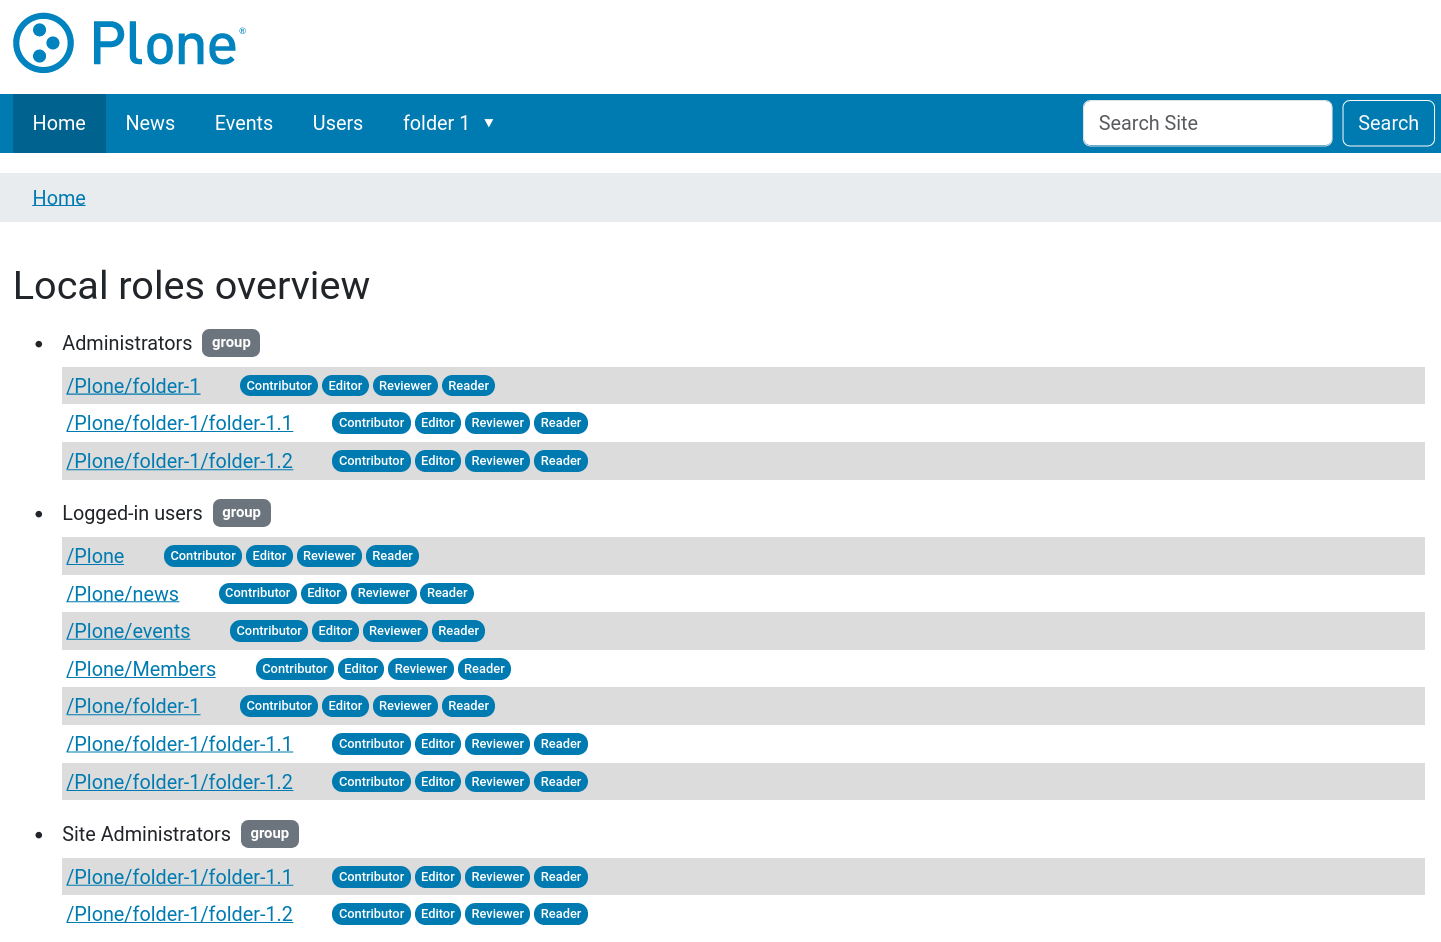
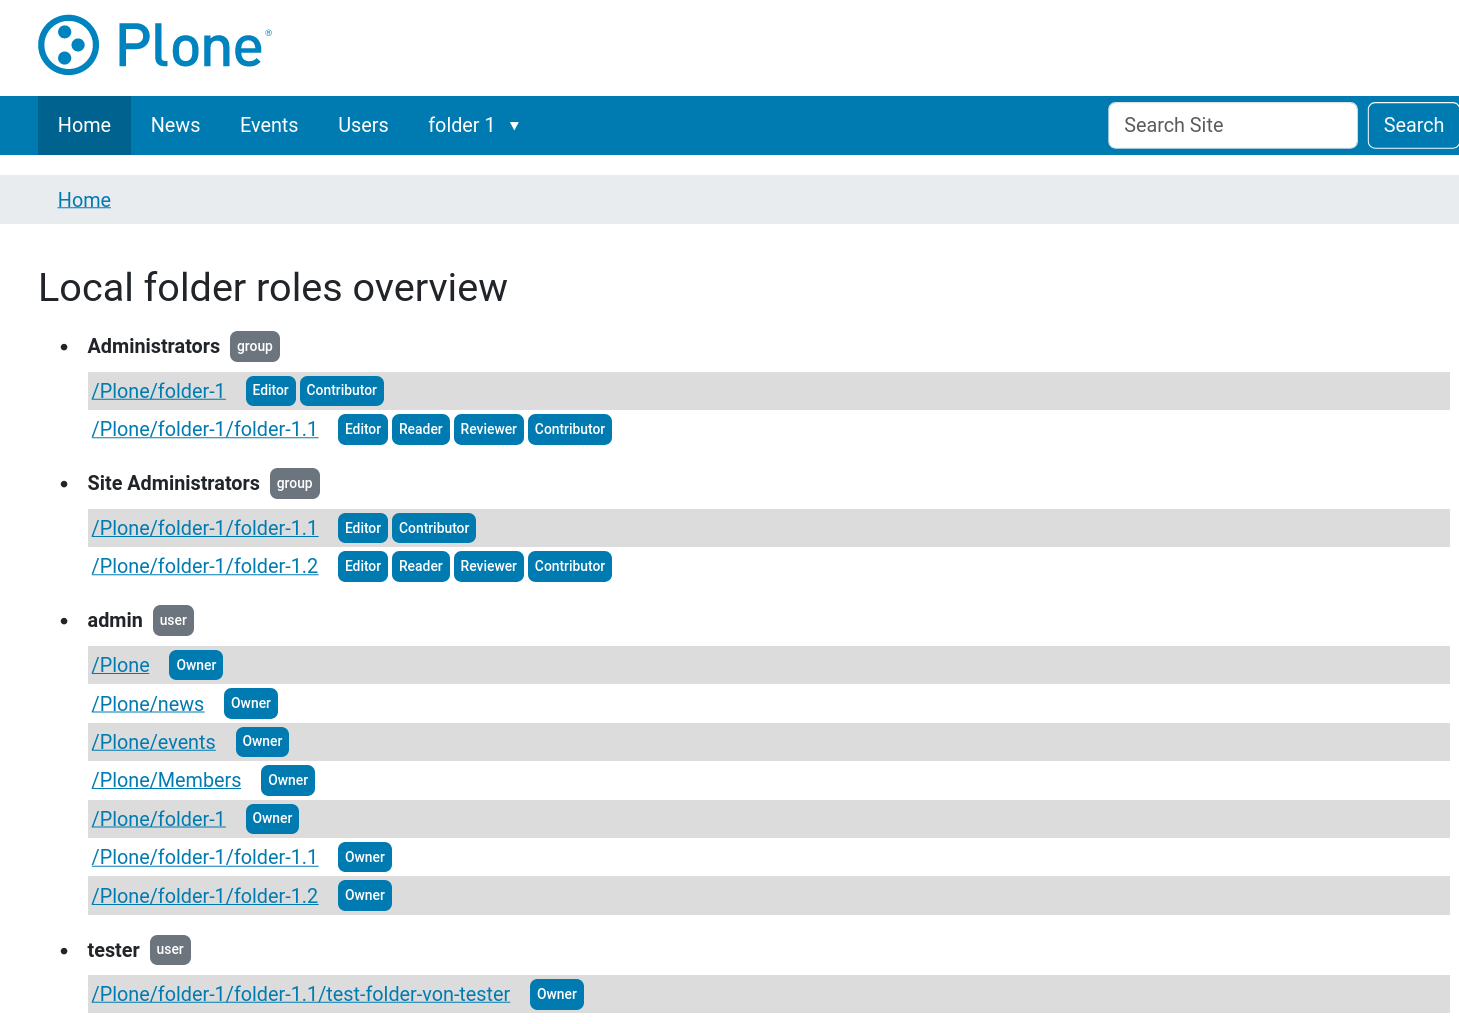
only show local, non-acquired roles, but also collect global_roles

diff --git a/src/collective/localrolesoverview/browser/static/main.css b/src/collective/localrolesoverview/browser/static/main.css
@@ -1,45 +1,53 @@
-.template-localroles-overview .principal{
+.template-localfolderroles-overview .principal{
     display: flex;
     flex-direction: column;
     gap: 0.5em;
     padding: 0.5em;
 }
 
-.template-localroles-overview .principal__header{
+.template-localfolderroles-overview .principal__header{
     display: flex;
     gap: 0.5em;
-    --bs-badge-font-size: 0.65em;
-    --bs-badge-font-weight: 500;
-    --bs-badge-padding-x: 0.5em;
-    --bs-badge-padding-y: 0.15em;
-    line-height: 1.4em;
 }
 
-.template-localroles-overview .paths{
+.template-localfolderroles-overview .principal__header .badge{
+    --bs-badge-font-size: 0.7rem;
+    --bs-badge-font-weight: 500;
+    --bs-badge-padding-x: 0.5em;
+    --bs-badge-padding-y: 0.1em;
+    line-height: 1.4rem;
+}
+
+.template-localfolderroles-overview .principal__title{
+    font-weight: bold;
+}
+
+.template-localfolderroles-overview .paths{
     padding: 0;
 }
 
-.template-localroles-overview .paths > li{
+.template-localfolderroles-overview .paths > li{
     display: flex;
     align-items: center;
     padding: 0.2em;
+    font-size: 1rem;
 }
-.template-localroles-overview .paths > li:nth-child(odd){
+.template-localfolderroles-overview .paths > li:nth-child(odd){
     background-color: gainsboro;
 }
 
-.template-localroles-overview .roles{
+.template-localfolderroles-overview .roles{
     display: flex;
     flex-wrap: wrap;
     gap: 0.2em;
     list-style-type: none;
+    padding: 0 0 0 1em;
 }
 
-.template-localroles-overview .roles .badge{
-    --bs-badge-font-size: 0.65em;
+.template-localfolderroles-overview .roles .badge{
+    --bs-badge-font-size: 0.7rem;
     --bs-badge-font-weight: 500;
     --bs-badge-padding-x: 0.5em;
-    --bs-badge-padding-y: 0.15em;
-    --bs-border-radius-pill: 0.8em;
-    line-height: 1.4em;
+    --bs-badge-padding-y: 0.1em;
+    line-height: 1.4rem;
 }

diff --git a/src/collective/localrolesoverview/utils.py b/src/collective/localrolesoverview/utils.py
@@ -1,4 +1,73 @@
+from collective.localrolesoverview import _
 from plone import api
+from Products.CMFCore.utils import getToolByName
+
+AUTH_GROUP = "AuthenticatedUsers"
+STICKY = (AUTH_GROUP,)
+
+
+def _local_roles_settings(context):
+    info = []
+    acl_users = getToolByName(context, "acl_users")
+    portal_groups = getToolByName(context, "portal_groups")
+
+    local_roles = acl_users._getLocalRolesForDisplay(context)
+    items = {}
+    for name, roles, rtype, rid in local_roles:
+        if rid in items:
+            items[rid]["local"] = roles
+        else:
+            items[rid] = dict(
+                id=rid,
+                name=name,
+                type=rtype,
+                sitewide=[],
+                acquired=[],
+                local=roles,
+            )
+
+    dec_users = [
+        (a["id"] not in STICKY, a["type"], a["name"], a)
+        for a in items.values()
+    ]
+    dec_users.sort()
+    for d in dec_users:
+        item = d[-1]
+        name = item["name"]
+        rid = item["id"]
+        login = rid
+        global_roles = set()
+
+        if item["type"] == "user":
+            member = acl_users.getUserById(rid)
+            if member is not None:
+                name = (
+                    member.getProperty("fullname") or member.getUserName() or name
+                )
+                global_roles = set(member.getRoles())
+                login = member.getUserName()
+        elif item["type"] == "group":
+            g = portal_groups.getGroupById(rid)
+            name = g.getGroupTitleOrName()
+            login = None
+            global_roles = set(g.getRoles())
+
+            # This isn't a proper group, so it needs special treatment :(
+            if rid == AUTH_GROUP:
+                name = _("Logged-in users")
+
+        info_item = dict(
+            id=item["id"],
+            type=item["type"],
+            title=name,
+            local_roles=item['local'],
+            global_roles=global_roles,
+        )
+        if login != name:
+            info_item["login"] = login
+        if info_item["local_roles"] or info_item["global_roles"]:
+            info.append(info_item)
+    return info
 
 
 def build_local_roles_map(context):
@@ -6,8 +75,7 @@ def build_local_roles_map(context):
     brains = api.content.find(context=context, is_folderish=True)
     for brain in brains:
         obj = brain.getObject()
-        sharing_view = api.content.get_view(name="sharing", context=obj)
-        rolemaps = sharing_view.existing_role_settings()
+        rolemaps = _local_roles_settings(obj)
         for rolemap in rolemaps:
             if rolemap["id"] not in lrmap:
                 lrmap[rolemap["id"]] = {
@@ -20,7 +88,7 @@ def build_local_roles_map(context):
             lrmap[rolemap["id"]]["paths"].append(obj.absolute_url_path())
             lrmap[rolemap["id"]][obj.absolute_url_path()] = {
                 "url": obj.absolute_url(),
-                "roles": [r for r in rolemap["roles"] if r],
+                "roles": [r for r in rolemap["local_roles"] if r],
             }
     return lrmap
 

diff --git a/src/collective/localrolesoverview/views/localroles_overview.py b/src/collective/localrolesoverview/views/localroles_overview.py
@@ -10,12 +10,12 @@ from zope.interface import Interface
 # from Products.Five.browser.pagetemplatefile import ViewPageTemplateFile
 
 
-class ILocalrolesOverview(Interface):
+class ILocalfolderrolesOverview(Interface):
     """Marker Interface for ILocalrolesOverview"""
 
 
-@implementer(ILocalrolesOverview)
-class LocalrolesOverview(BrowserView):
+@implementer(ILocalfolderrolesOverview)
+class LocalfolderrolesOverview(BrowserView):
     # If you want to define a template here, please remove the template from
     # the configure.zcml registration of this view.
     # template = ViewPageTemplateFile('permissions_overview.pt')
@@ -23,13 +23,15 @@ class LocalrolesOverview(BrowserView):
     def __call__(self):
         # Implement your own actions:
         self.lrmap = build_local_roles_map(self.context)
+        self.ignore_users = int(self.request.get("ignore_users", 0))
         return self.index()
 
     @property
     def principal_ids_sorted(self):
         principals = []
-        for pid in self.lrmap.keys():
-            principals.append(pid)
+        for pid, principal in self.lrmap.items():
+            if principal["type"] == "group" or not self.ignore_users:
+                principals.append(pid)
         return sorted(principals)
 
 

diff --git a/README.rst b/README.rst
@@ -31,13 +31,15 @@
 collective.localrolesoverview
 ==============================
 
-Shows assigned local roles for all users, groups on all content.
+Shows assigned local roles for all users, groups on all folderish content.
 
-This packages provides a view called `@@localroles-overview`, which you can call on any Plone context.
+This packages provides a view called `@@localfolderroles-overview`, which you can call on any Plone context.
 
+.. image:: https://github.com/collective/collective.localrolesoverview/raw/main/docs/screenshot.png
 
-.. image:: docs/screenshot.png
+You can also ignore users `@@localfolderroles-overview?ignore_users=1`.
 
+.. image:: https://github.com/collective/collective.localrolesoverview/raw/main/docs/screenshot-ignored-users.png
 
 
 Installation
